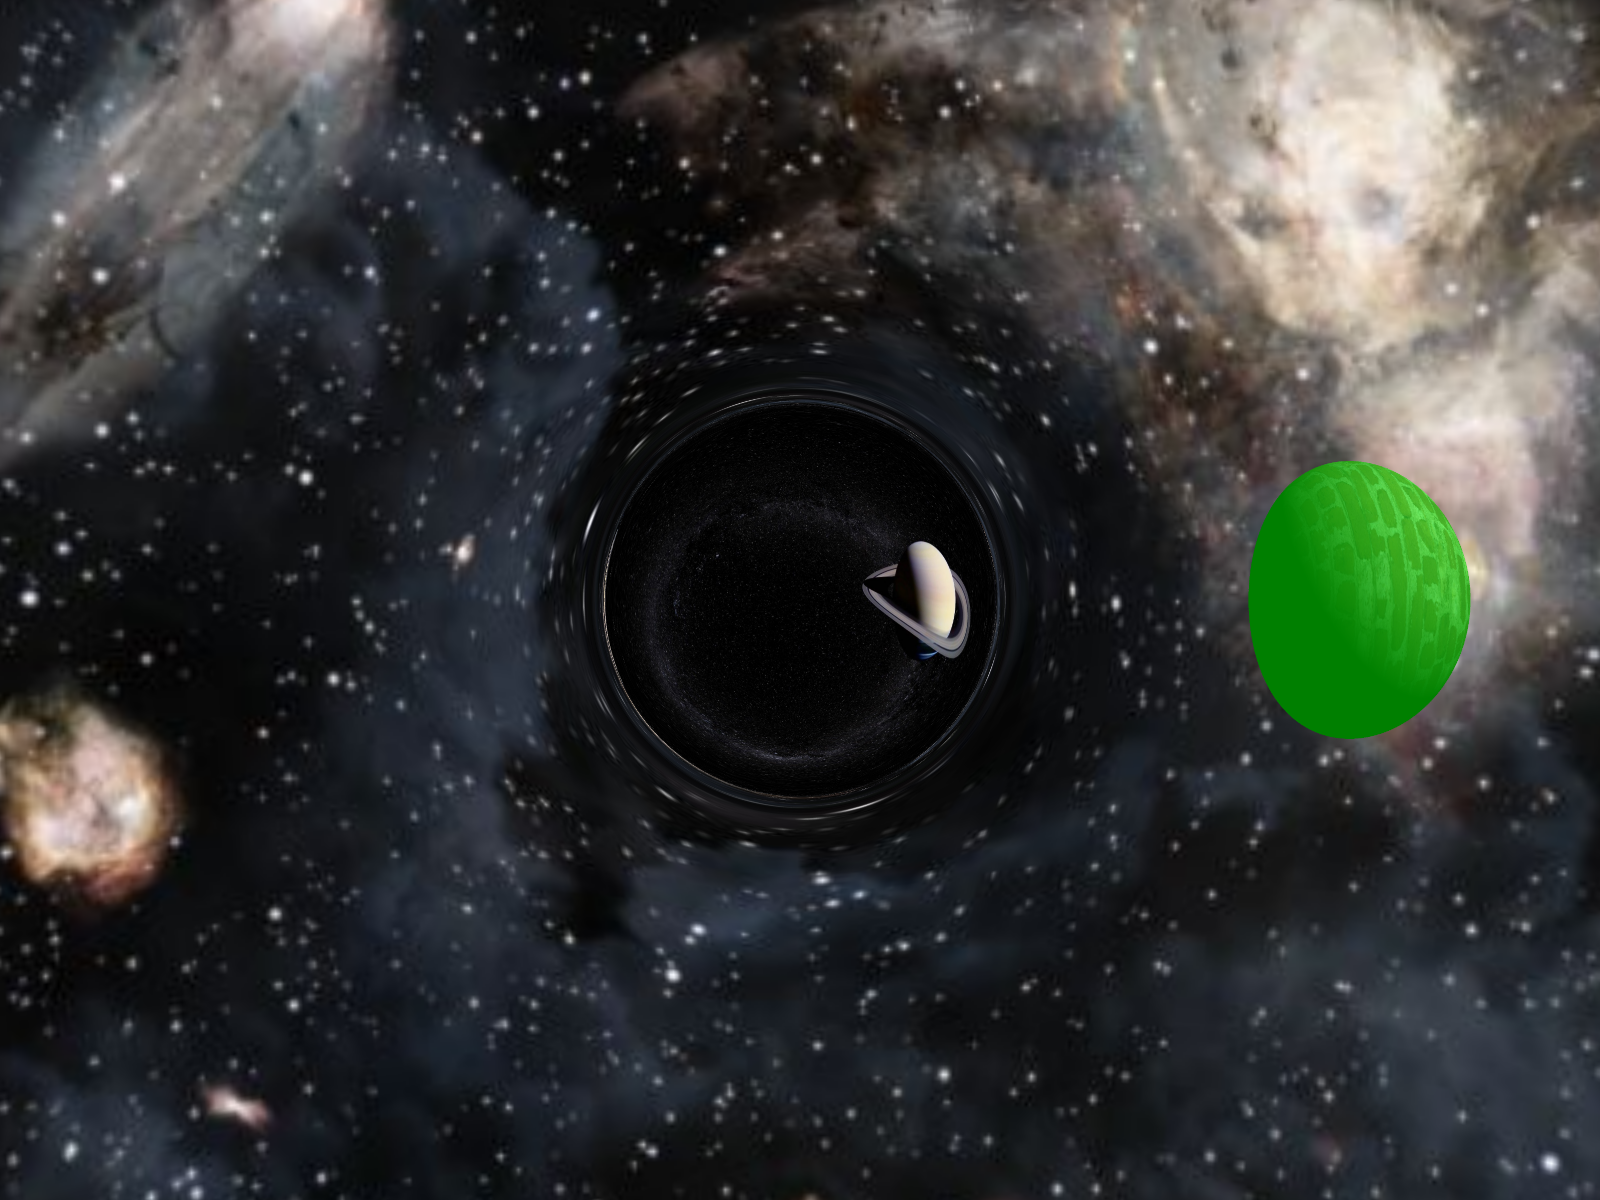
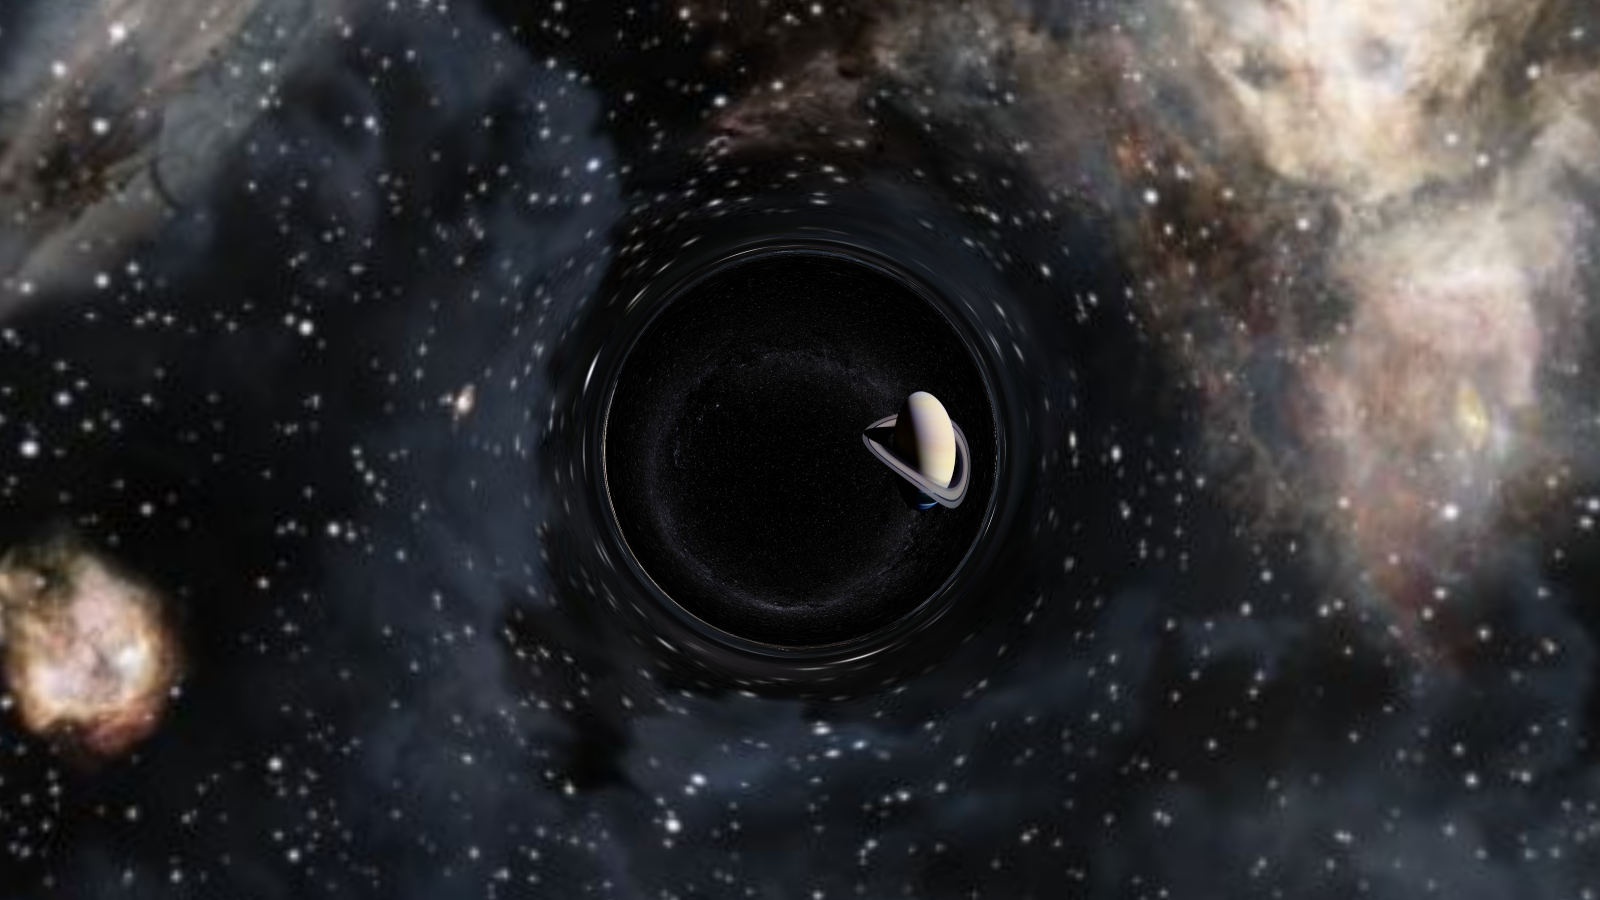
.

diff --git a/src/renderer.cpp b/src/renderer.cpp
@@ -271,100 +271,100 @@ void render(RGBA *framebuffer, int outWidth, int outHeight, const ImageData &sph
 
 
 
-                for (const Object &currentObject : objects)
-                {
-                    glm::vec3 objectPos(currentObject.points[0][0], currentObject.points[0][1], currentObject.points[0][2]);
-                    HitObjectData objectData;
-                    float cubeHalfSide = 0.0f;
-                    float lMinObject, lMaxObject;
+                // for (const Object &currentObject : objects)
+                // {
+                //     glm::vec3 objectPos(currentObject.points[0][0], currentObject.points[0][1], currentObject.points[0][2]);
+                //     HitObjectData objectData;
+                //     float cubeHalfSide = 0.0f;
+                //     float lMinObject, lMaxObject;
 
-                    if (currentObject.type == PrimitiveType::Sphere)
-                    {
-                        objectData = HitObjectData{objectPos, currentObject.points[0][3], -length(objectPos)};
-                        lMinObject = objectData.l - objectData.size;
-                        lMaxObject = objectData.l + objectData.size;
-                    }
-                    else
-                    {
-                        cubeHalfSide = currentObject.side * 0.5f;
-                        objectData = HitObjectData{objectPos, cubeHalfSide, -length(objectPos)};
-                        lMinObject = objectData.l - cubeHalfSide * 1.732f;
-                        lMaxObject = objectData.l + cubeHalfSide * 1.732f;
-                    }
+                //     if (currentObject.type == PrimitiveType::Sphere)
+                //     {
+                //         objectData = HitObjectData{objectPos, currentObject.points[0][3], -length(objectPos)};
+                //         lMinObject = objectData.l - objectData.size;
+                //         lMaxObject = objectData.l + objectData.size;
+                //     }
+                //     else
+                //     {
+                //         cubeHalfSide = currentObject.side * 0.5f;
+                //         objectData = HitObjectData{objectPos, cubeHalfSide, -length(objectPos)};
+                //         lMinObject = objectData.l - cubeHalfSide * 1.732f;
+                //         lMaxObject = objectData.l + cubeHalfSide * 1.732f;
+                //     }
 
-                    for (int k = 1; k < rayPositionCounts[rayInd]; k++)
-                    {
-                        glm::vec4 pos = rayPositions[k + rayInd * numRayPositions];
-                        if (pos[3] >= lMinObject && pos[3] <= lMaxObject)
-                        {
-                            glm::vec3 posEuclidean(pos);
-                            posEuclidean = glm::vec3(rotationMatrix * glm::vec4(posEuclidean, 1.0));
+                //     for (int k = 1; k < rayPositionCounts[rayInd]; k++)
+                //     {
+                //         glm::vec4 pos = rayPositions[k + rayInd * numRayPositions];
+                //         if (pos[3] >= lMinObject && pos[3] <= lMaxObject)
+                //         {
+                //             glm::vec3 posEuclidean(pos);
+                //             posEuclidean = glm::vec3(rotationMatrix * glm::vec4(posEuclidean, 1.0));
 
-                            bool hitObject = false;
-                            glm::vec3 normal;
-                            glm::vec3 hitPoint;
-                            float hitDistance;
+                //             bool hitObject = false;
+                //             glm::vec3 normal;
+                //             glm::vec3 hitPoint;
+                //             float hitDistance;
 
-                            if (currentObject.type == PrimitiveType::Sphere)
-                            {
-                                float dist = length(posEuclidean - objectData.center);
-                                if (dist - objectData.size < 0.0)
-                                {
-                                    hitObject = true;
-                                    hitPoint = normalize(posEuclidean - objectData.center) * objectData.size + objectData.center;
-                                    normal = normalize(hitPoint - objectData.center);
-                                    hitDistance = length(hitPoint - glm::vec3(rayPositions[k - 1 + rayInd * numRayPositions]));
-                                }
-                            }
-                            else
-                            {
-                                glm::vec3 prevPos = glm::vec3(rayPositions[k - 1 + rayInd * numRayPositions]);
-                                prevPos = glm::vec3(rotationMatrix * glm::vec4(prevPos, 1.0));
-                                glm::vec3 rayDirection = normalize(posEuclidean - prevPos);
+                //             if (currentObject.type == PrimitiveType::Sphere)
+                //             {
+                //                 float dist = length(posEuclidean - objectData.center);
+                //                 if (dist - objectData.size < 0.0)
+                //                 {
+                //                     hitObject = true;
+                //                     hitPoint = normalize(posEuclidean - objectData.center) * objectData.size + objectData.center;
+                //                     normal = normalize(hitPoint - objectData.center);
+                //                     hitDistance = length(hitPoint - glm::vec3(rayPositions[k - 1 + rayInd * numRayPositions]));
+                //                 }
+                //             }
+                //             else
+                //             {
+                //                 glm::vec3 prevPos = glm::vec3(rayPositions[k - 1 + rayInd * numRayPositions]);
+                //                 prevPos = glm::vec3(rotationMatrix * glm::vec4(prevPos, 1.0));
+                //                 glm::vec3 rayDirection = normalize(posEuclidean - prevPos);
 
-                                float tNear, tFar;
-                                if (intersectCube(prevPos, rayDirection, objectData.center, cubeHalfSide, tNear, tFar))
-                                {
-                                    hitObject = true;
-                                    hitPoint = prevPos + rayDirection * tNear;
-                                    normal = getCubeNormal(hitPoint, objectData.center, cubeHalfSide);
-                                    hitDistance = tNear;
-                                }
-                            }
+                //                 float tNear, tFar;
+                //                 if (intersectCube(prevPos, rayDirection, objectData.center, cubeHalfSide, tNear, tFar))
+                //                 {
+                //                     hitObject = true;
+                //                     hitPoint = prevPos + rayDirection * tNear;
+                //                     normal = getCubeNormal(hitPoint, objectData.center, cubeHalfSide);
+                //                     hitDistance = tNear;
+                //                 }
+                //             }
 
-                            if (hitObject && hitDistance < closestDistance)
-                            {
-                                closestDistance = hitDistance;
-                                intersectsPrimitive = true;
+                //             if (hitObject && hitDistance < closestDistance)
+                //             {
+                //                 closestDistance = hitDistance;
+                //                 intersectsPrimitive = true;
 
-                                // sample the texture color
-                                glm::vec4 posIntersection;
-                                if (pos[3] > 0)
-                                {
-                                    posIntersection = glm::vec4(hitPoint, 1.0);
-                                }
-                                else
-                                {
-                                    posIntersection = glm::vec4(hitPoint, -1.0);
-                                }
+                //                 // sample the texture color
+                //                 glm::vec4 posIntersection;
+                //                 if (pos[3] > 0)
+                //                 {
+                //                     posIntersection = glm::vec4(hitPoint, 1.0);
+                //                 }
+                //                 else
+                //                 {
+                //                     posIntersection = glm::vec4(hitPoint, -1.0);
+                //                 }
 
-                                glm::vec3 dirToCamera = normalize(
-                                    glm::vec3(rayPositions[k - 1 + rayInd * numRayPositions] - pos));
+                //                 glm::vec3 dirToCamera = normalize(
+                //                     glm::vec3(rayPositions[k - 1 + rayInd * numRayPositions] - pos));
 
-                                Hit hit = {posIntersection, dirToCamera, objectData};
-                                glm::vec3 color_vec =
-                                    shadePixel(hit, currentObject.textureFile, BumpMap{nullptr, 0, 0},
-                                               lights, currentObject.type, normal) *
-                                    255.f;
-                                finalColor = RGBA{static_cast<std::uint8_t>(std::min(255.f, color_vec.x)),
-                                                  static_cast<std::uint8_t>(std::min(255.f, color_vec.y)),
-                                                  static_cast<std::uint8_t>(std::min(255.f, color_vec.z)), 255};
+                //                 Hit hit = {posIntersection, dirToCamera, objectData};
+                //                 glm::vec3 color_vec =
+                //                     shadePixel(hit, currentObject.textureFile, BumpMap{nullptr, 0, 0},
+                //                                lights, currentObject.type, normal) *
+                //                     255.f;
+                //                 finalColor = RGBA{static_cast<std::uint8_t>(std::min(255.f, color_vec.x)),
+                //                                   static_cast<std::uint8_t>(std::min(255.f, color_vec.y)),
+                //                                   static_cast<std::uint8_t>(std::min(255.f, color_vec.z)), 255};
 
-                                break;
-                            }
-                        }
-                    }
-                }
+                //                 break;
+                //             }
+                //         }
+                //     }
+                // }
 
                 if (intersectsPrimitive)
                 {
